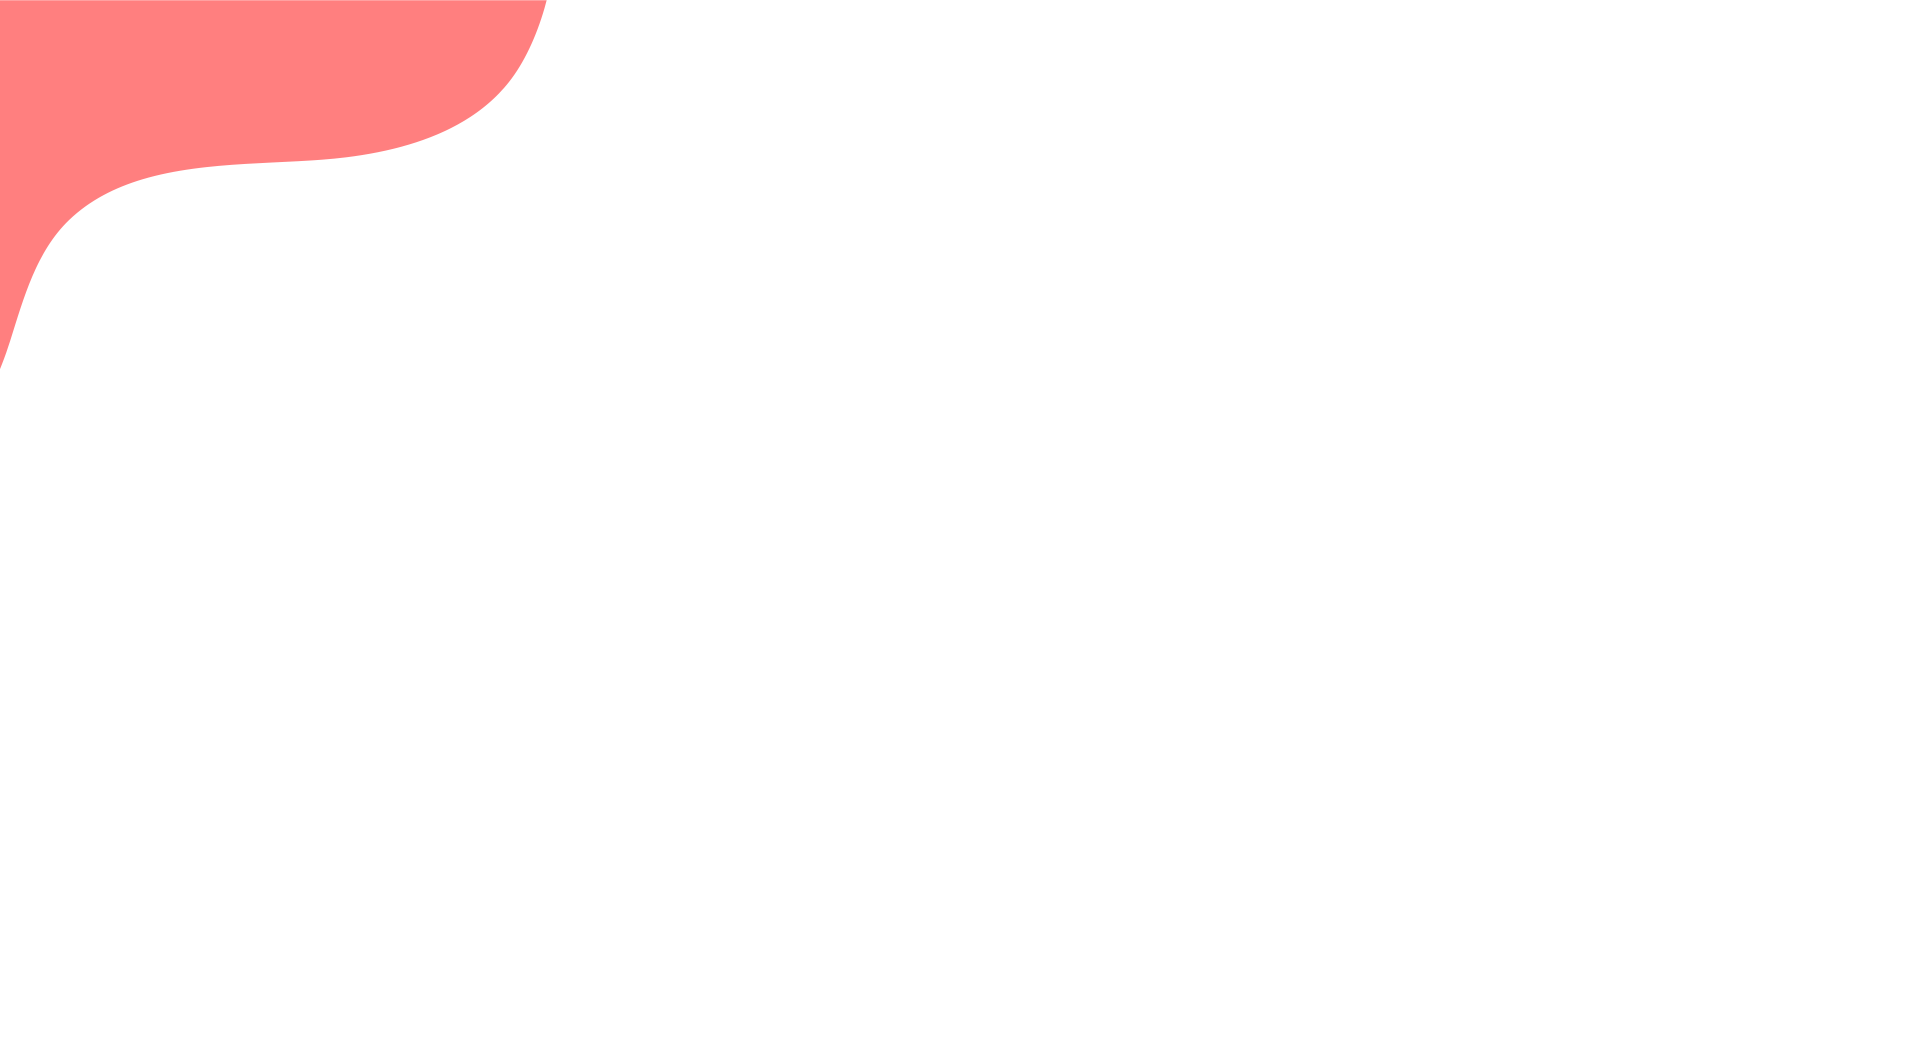
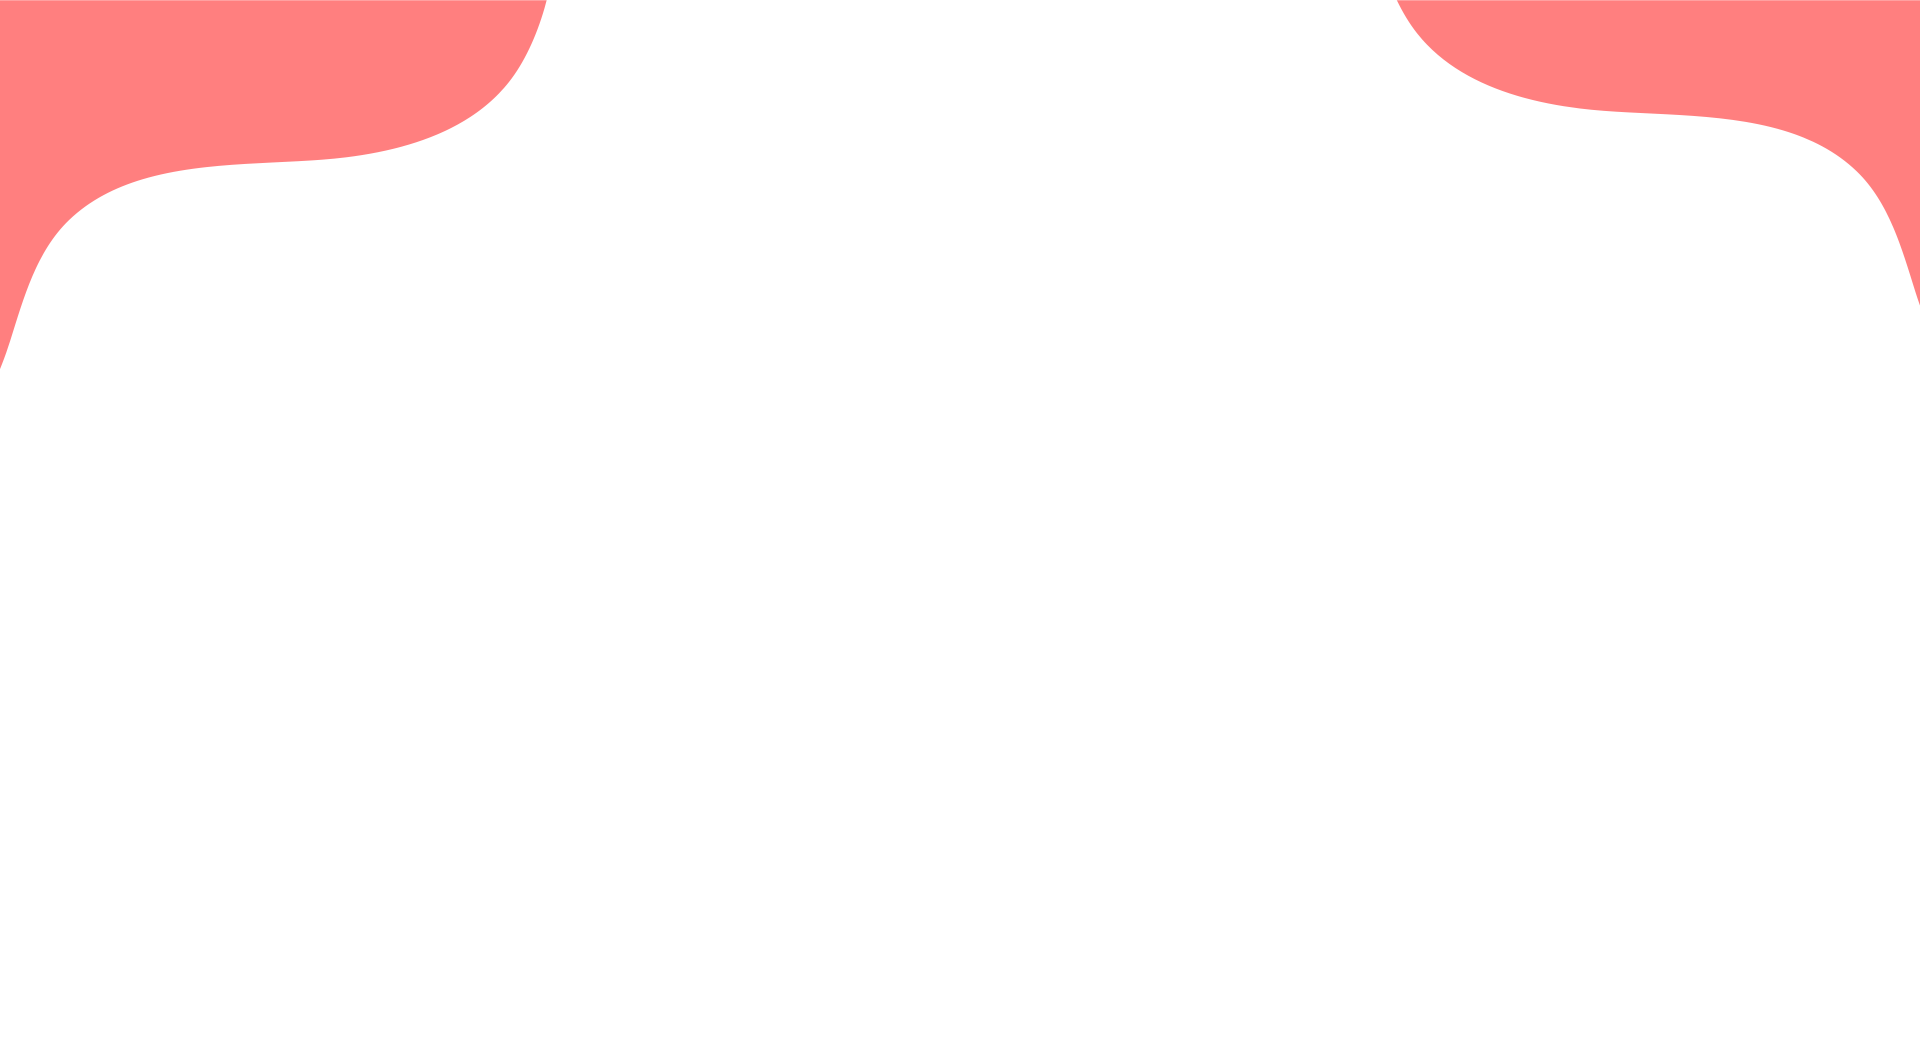
Subscribe section done

Changed region(s): [[0.7188, 0.0, 1.0, 0.2797]]

diff --git a/css/style.css b/css/style.css
@@ -132,6 +132,46 @@ margin: 50px auto;
 #about p:last-of-type{
 font-weight: 700;
 }
+/* Subscribe section ===================================================================================================== */
+#subscribe{
+background: url(../img/shapes/shape-3.png) top/cover;
+padding-bottom: 250px;
+}
+#subscribe p, #subscribe h2{
+color: var(--secondary-color) !important;
+}
+.input-wrap{
+margin: 0 auto;
+width: 60%;
+height: 60px;
+max-width: 800px;
+}
+.input-wrap input{
+width: 75%;
+height: 100%;
+border-top-left-radius: 30px;
+border-bottom-left-radius: 30px;
+outline: none;
+padding-left: 20px;
+background: #f4f4f4;
+border: none;
+color: #c6c6c6;
+}
+.input-wrap input::placeholder{
+font-size: 25px;
+color: #c6c6c6;
+}
+.input-wrap button{
+width: 25%;
+height: 100%;
+border: none;
+outline: none;
+color: var(--main-color);
+background: var(--secondary-color);
+border-top-right-radius: 30px;
+border-bottom-right-radius: 30px;
+cursor: pointer;
+}
 /* Utility classes ===================================================================================================== */
 section:not(:first-of-type){
 padding: 150px 0;

diff --git a/index.html b/index.html
@@ -143,6 +143,18 @@
             <p class="text-xl">Phoebe Fraizer</p>
         </div>
     </section>
+    <section id="subscribe">
+        <div class="container">
+            <h2 class="section-headline text-lg">Subscribe</h2>
+            <p class="text-md section-description">Lorem ipsum dolor sit amet consectetur adipisicing elit.
+                Labore,
+                possimus.</p>
+            <div class="input-wrap flex-container align-center">
+                <input type="email" placeholder="Your Email..." class="text-md">
+                <button type="submit" class="text-md">Subscribe</button>
+            </div>
+        </div>
+    </section>
     <script src="js/script.js"></script>
 </body>
 
